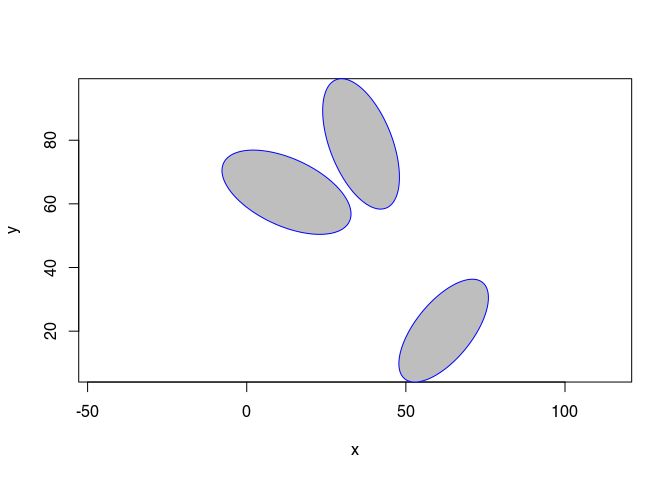
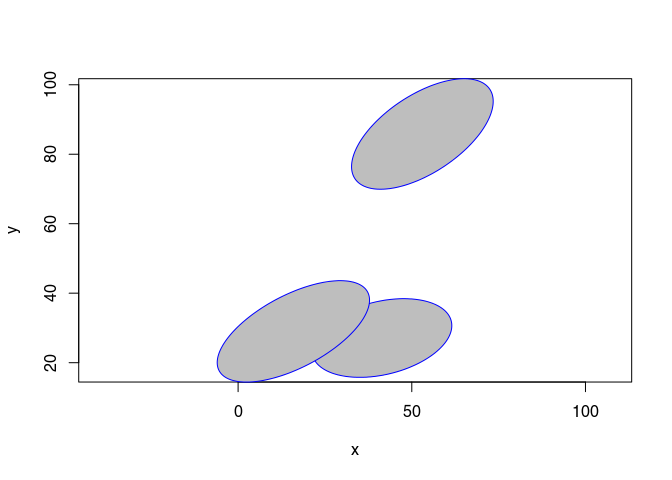
run readme

diff --git a/README.md b/README.md
@@ -147,8 +147,8 @@ para <- list("L"      = list(type = "runif", min = 40, max = 70),
 Now we define the simulation box:
 
 ```r
-modbox <- list("x" = c(0,100),
-               "y" = c(0,200),
+modbox <- list("x" = c(0,200),
+               "y" = c(0,100),
                "z" = c(0,10)
              )
 ```
@@ -204,7 +204,7 @@ RConics::addLine(l,  col = "green", lwd = 4)
     
     ```r
     smod <- section(mod, l)
-    plotSection(smod, border = "red", col = "grey", asp = 5, ylim = c(0, 10),
+    plotSection(smod, border = "red", col = "grey", asp = 2, ylim = c(0, 10),
                 xlim = c(-20, 170), ylab = "z (m)", xlab = "x' (m)")
     title("Vertical section along 'l' (green line)")
     ```
@@ -247,7 +247,7 @@ RConics::addLine(l,  col = "green", lwd = 4)
     ```r
     # vertical section at x = 50.5
     plot3D::image2D(PIX$XYZ[which(PIX$x == 50.5),,], x = PIX$y, y = PIX$z,
-                    asp = 1)
+                    asp = 2)
     ```
     
     ![](README_files/figure-html/plot3D-2.png)<!-- -->
@@ -272,7 +272,7 @@ RConics::addLine(l,  col = "green", lwd = 4)
     ```r
     # vertical section at x = 50.5
     plot3D::image2D(FAC[which(PIX$x == 50.5),,], x = PIX$y, y = PIX$z, 
-                    asp = 1)
+                    asp = 2)
     ```
     
     ![](README_files/figure-html/FAC-2.png)<!-- -->
@@ -313,7 +313,7 @@ RConics::addLine(l,  col = "green", lwd = 4)
     ```r
     # vertical section at x = 50.5
     plot3D::image2D(HK[which(PIX$x == 50.5),,], x = PIX$y, y = PIX$z,
-                    asp = 1)
+                    asp = 2)
     ```
     
     ![](README_files/figure-html/HK-2.png)<!-- -->
@@ -325,7 +325,7 @@ RConics::addLine(l,  col = "green", lwd = 4)
     VANI <- setProp(PIX$XYZ, type = c("Kvani"), fprop = faciesProp)
     
     # horizontal section
-    plot3D::image2D(VANI[,, 50], x = PIX$x, y = PIX$y, asp = 2)
+    plot3D::image2D(VANI[,, 50], x = PIX$x, y = PIX$y, asp = 1)
     ```
     
     ![](README_files/figure-html/VANI-1.png)<!-- -->
@@ -333,7 +333,7 @@ RConics::addLine(l,  col = "green", lwd = 4)
     ```r
     # vertical section at x = 50.5
     plot3D::image2D(VANI[which(PIX$x == 50.5),,], x = PIX$y, y = PIX$z, 
-                    asp = 1)
+                    asp = 2)
     ```
     
     ![](README_files/figure-html/VANI-2.png)<!-- -->
@@ -352,7 +352,7 @@ RConics::addLine(l,  col = "green", lwd = 4)
     ```r
     # vertical section at x = 50.5
     plot3D::image2D(PORO[which(PIX$x == 50.5),,], x = PIX$y, y = PIX$z, 
-                    asp = 1)
+                    asp = 2)
     ```
     
     ![](README_files/figure-html/PORO-2.png)<!-- -->
@@ -363,44 +363,53 @@ RConics::addLine(l,  col = "green", lwd = 4)
 
 ```r
 rnxyz <- dim(PIX$XYZ)
+nx <- rnxyz[1]
+ny <- rnxyz[2]
+nz <- rnxyz[3]
+
+# x-side: x x z (200 x 100) at y = 0
+
+vx <- (PIX$x)
+vy <- rep(0, nz)
+vz <- matrix(rep(PIX$z, each = nx), ncol = nz, 
+             nrow = nx, byrow = FALSE)
+M1 <- plot3D::mesh(vx, vy)
+
+plot3D::surf3D(M1$x, M1$y, vz, colvar = (HK[,1,]), 
+              col = plot3D::jet2.col(201),
+              bty = "f", cex = 0.01, pch = 20,  clim = range(HK),
+              clab = "hydraulic conductivity (m/s)", ticktype = "detailed",
+              theta = 40 , expand = 5, scale = FALSE, resfac = 0, clog = TRUE,
+              xlim = modbox$x, ylim = modbox$y, 
+              zlim = modbox$z, #extent3D(gwMod)[5:6],
+              xlab = "x", ylab = "y", shade = TRUE, ltheta = -125, lphi = 45,
+              colkey = list(plot = TRUE, width = 0.5, length = 0.5,
+              cex.axis = 0.8, side = 1),
+              col.axis = "black", col.panel = "white", col.grid = "grey",
+              lwd.panel = 1, lwd.grid = 2, box = TRUE)
+
+
+# y-side: y x z (100 x 100) at x = 
+vx <- rep(max(PIX$x), ny)
 vy <- PIX$y
-vx <- rep(max(PIX$x), length(PIX$x))
-vz <- matrix(rep(PIX$z, each = length(vy)), ncol = length(vy), 
-             nrow = length(vx), byrow = TRUE)
-M1 <- plot3D::mesh(vx, vy)
+vz <- matrix(rep(PIX$z, ny), ncol = nz, 
+             nrow = ny, byrow = TRUE)
+M1 <- plot3D::mesh(vy, vx)
 
-plot3D::surf3D(M1$x, M1$y, vz, colvar = t(HK[,rnxyz[2],]), 
-        col = plot3D::jet2.col(201),
-        bty = "f", cex = 0.01, pch = 20,  clim = range(HK),
-        clab = "hydraulic conductivity (m/s)", ticktype = "detailed",
-        theta = 40 , expand = 5, scale = FALSE, resfac = 0, clog = TRUE,
-        xlim = modbox$x, ylim = modbox$y, 
-        zlim = modbox$z, #extent3D(gwMod)[5:6],
-        xlab = "x", ylab = "y", shade = TRUE, ltheta = -125, lphi = 45,
-        colkey = list(plot = TRUE, width = 0.5, length = 0.5,
-        cex.axis = 0.8, side = 1),
-        col.axis = "black", col.panel = "white", col.grid = "grey",
-        lwd.panel = 1, lwd.grid = 2, box = TRUE)
-        
-vy <- (PIX$x)
-vx <- rep(0, length(PIX$x))
-vz <- matrix(rep(PIX$z, each = length(vx)), ncol = length(vx), 
-             nrow = length(vy), byrow = TRUE)
-M1 <- plot3D::mesh(vx, vy)
+plot3D::surf3D(M1$y, M1$x, vz, colvar = HK[nx,,], 
+               col = plot3D::jet2.col(201), add = TRUE, expand = 5, scale = FALSE, 
+                     resfac = 0, clog = TRUE,  clim = range(HK),
+              colkey = list(plot = FALSE))
+      
 
-plot3D::surf3D(M1$y, M1$x, vz, colvar = t(HK[1,,]), 
-        col = plot3D::jet2.col(201), add = TRUE, expand = 5, scale = FALSE, 
-        resfac = 0, clog = TRUE,  clim = range(HK),
-        colkey = list(plot = FALSE))
-
-
+# z-side: x x y (200 x 100) at z = 10
 vx <- rev(PIX$x)
 vy <- PIX$y
-vz <- matrix(rep(rep(max(PIX$z), length(PIX$z)), each = length(vy)), 
-              ncol = length(vy), nrow = length(vx), byrow = TRUE)
+vz <- matrix(rep(rep(max(PIX$z), nz), each = ny), 
+              ncol = ny, nrow = nx, byrow = TRUE)
 M1 <- plot3D::mesh(vx, vy)
 
-plot3D::surf3D(M1$x, M1$y, vz, colvar = (HK[,,rnxyz[3]]), 
+plot3D::surf3D(M1$x, M1$y, vz, colvar = (HK[,,nz]), 
         col = plot3D::jet2.col(201), add = TRUE, expand = 5, scale = FALSE, 
         resfac = 0, clog = TRUE,  clim = range(HK), 
         colkey = list(plot = FALSE))
